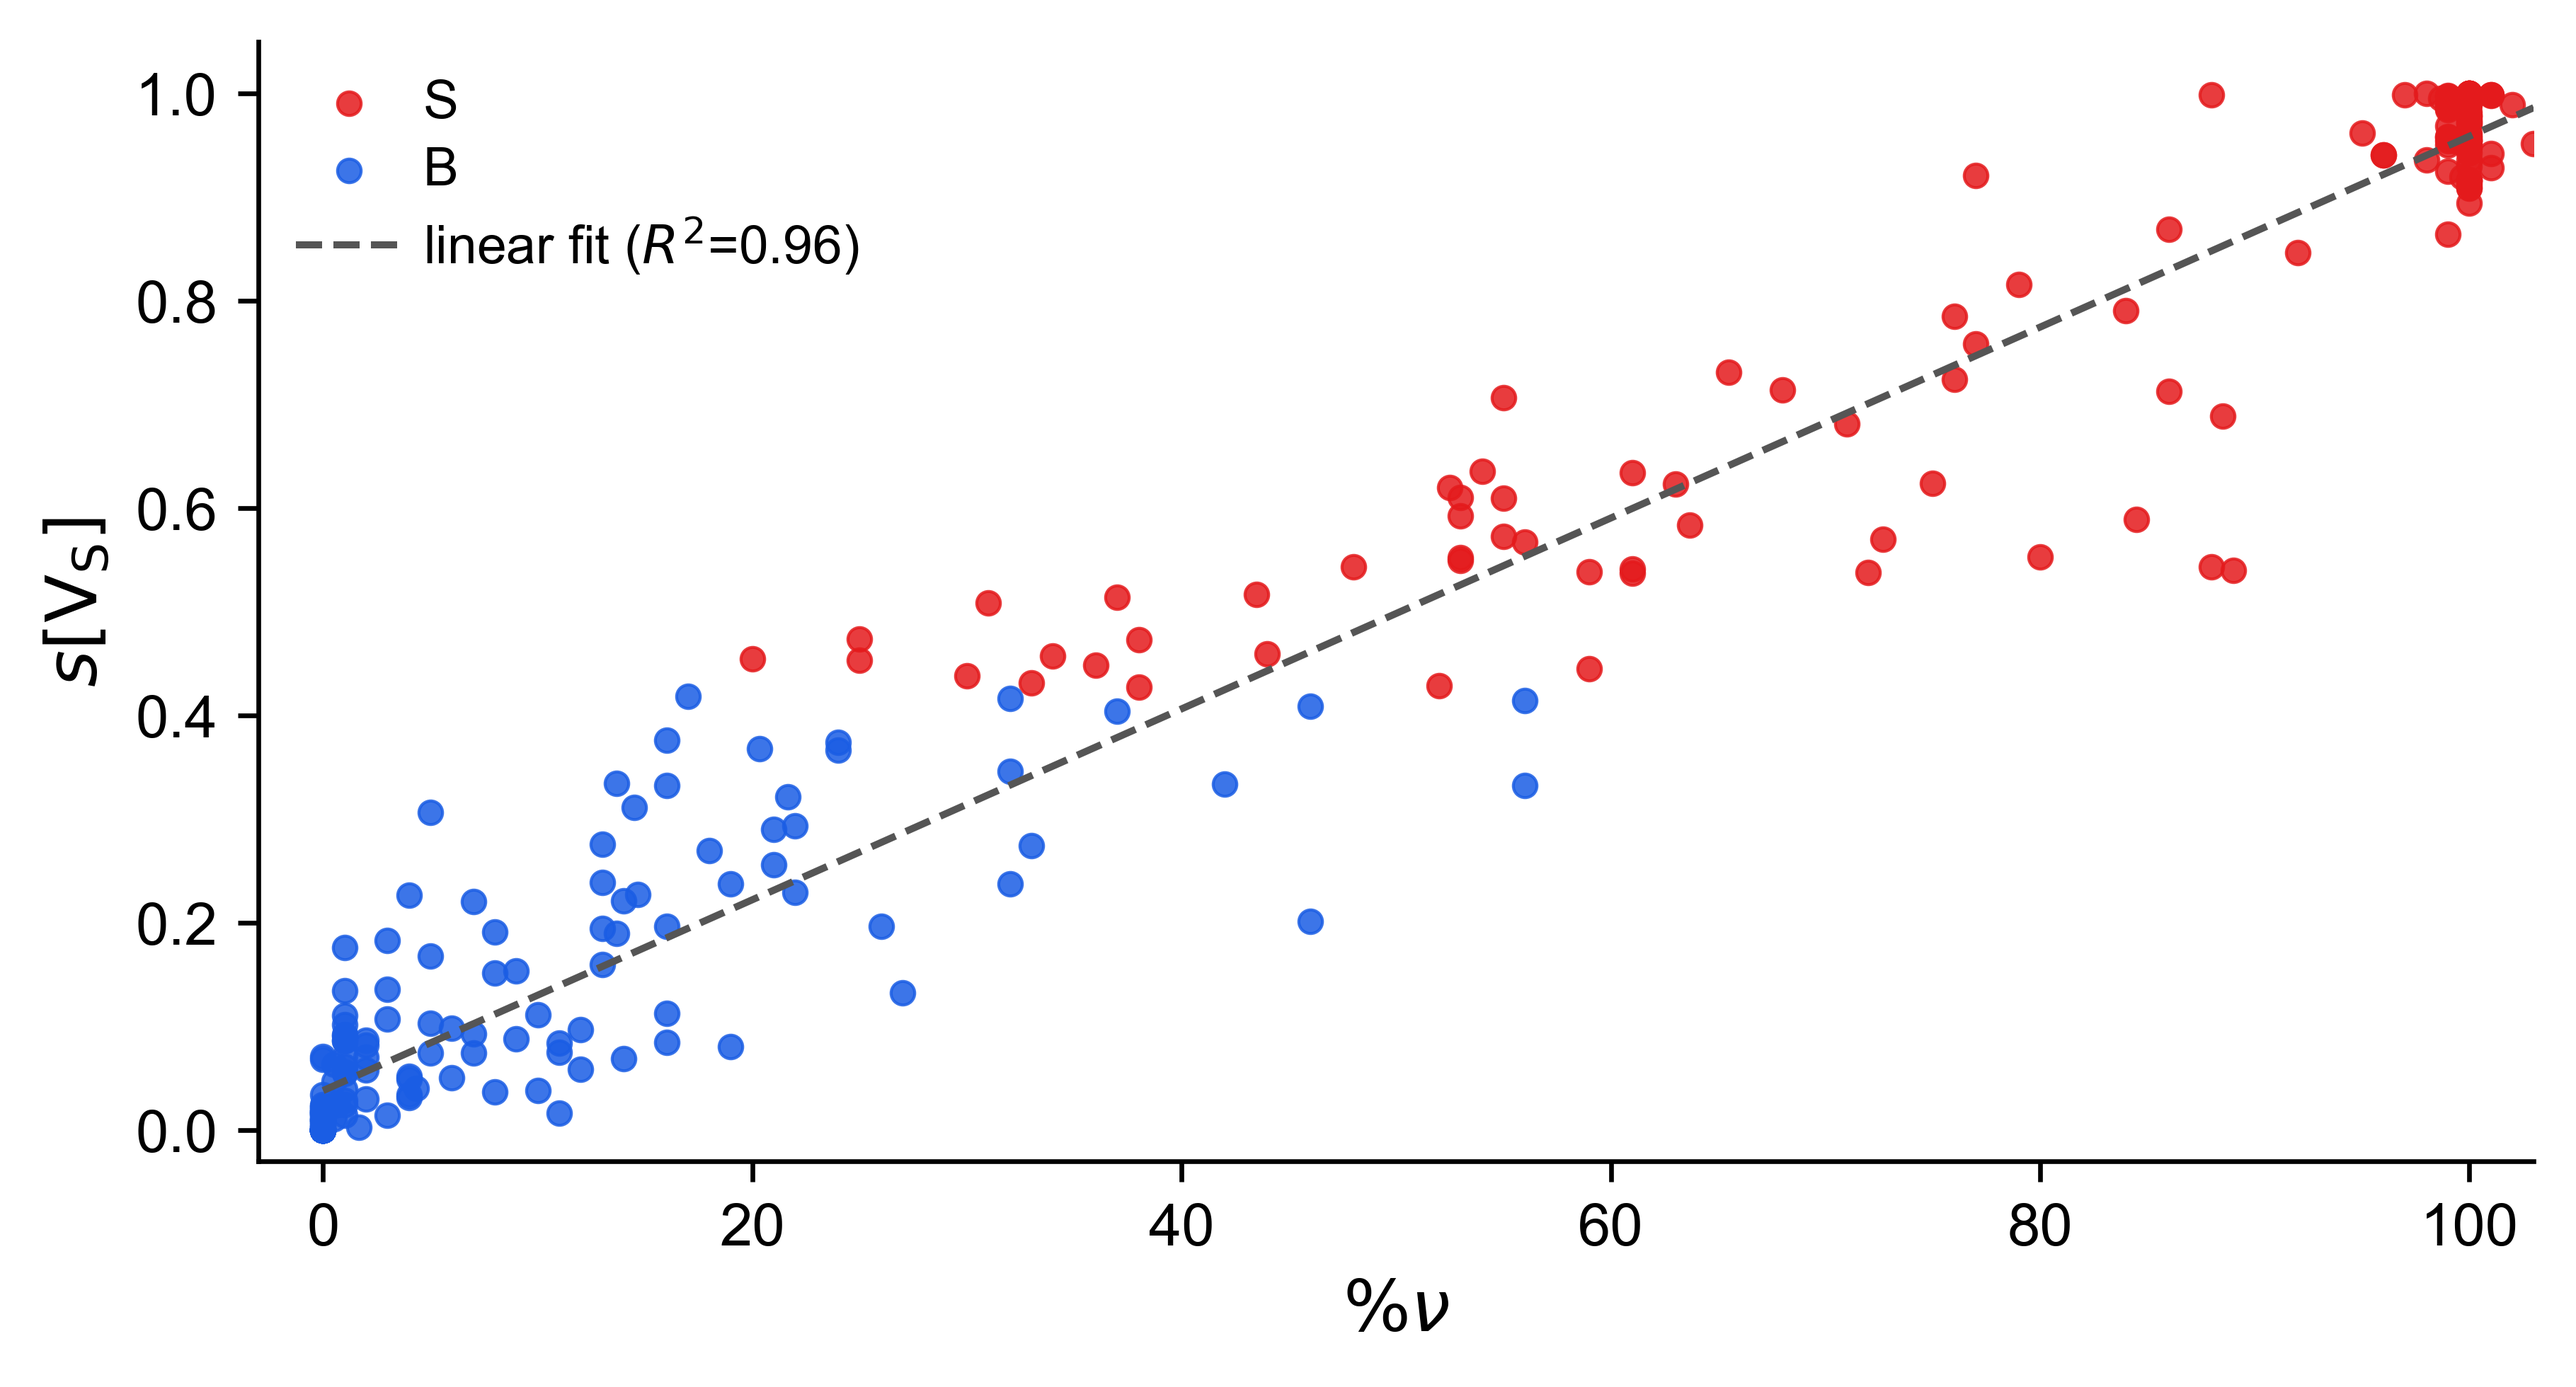
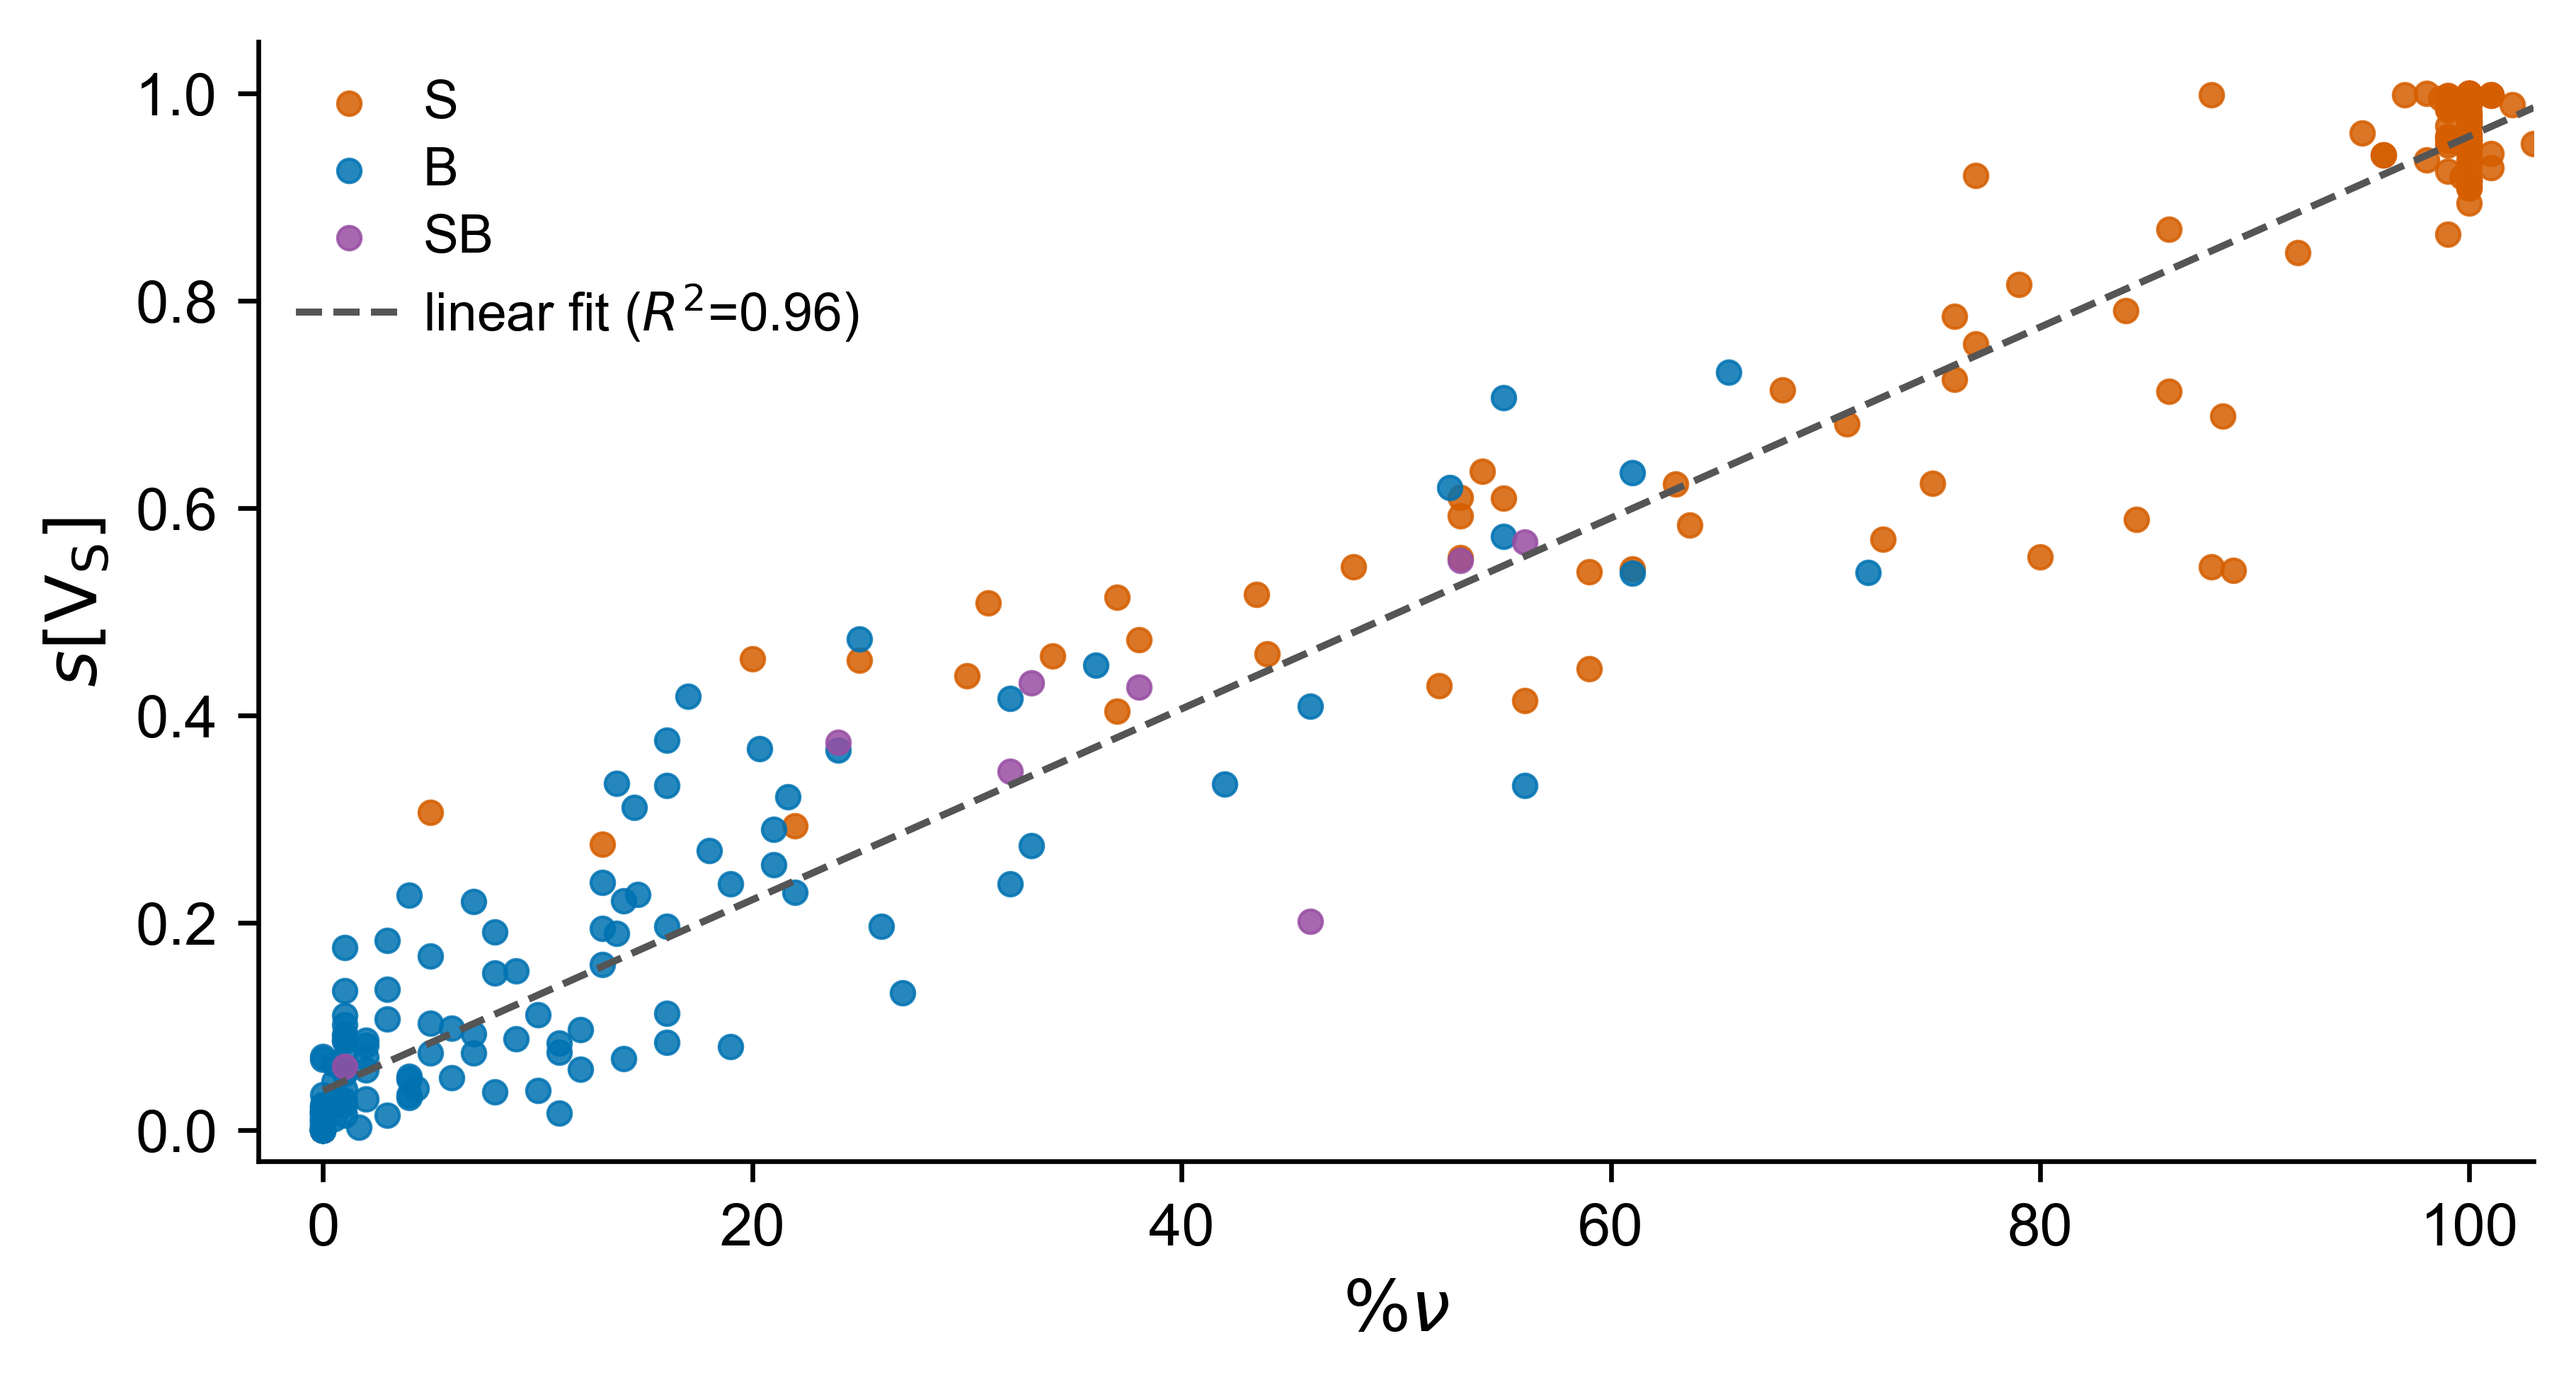
Color fig:ped_vs_vscore by literature reference S/B/SB, not our own predicted label
Coloring by the framework's own classify_all_modes output was circular
against the y-axis (V_Stretch, the quantity under test). Add color_by=
"reference" (new default) to plot_ped_vs_vscore, joining characterised_
modes.csv's hand-curated `type` column by Molecule+mode and rendering
with REF_CATEGORY_COLOR; color_by="predicted" keeps the old behavior for
comparison. tau_SB/label_source_csv only apply to "predicted" coloring.

diff --git a/src/figures.py b/src/figures.py
@@ -3244,25 +3244,46 @@ def _linear_fit_r2(x, y, degree=1):
 def plot_ped_vs_vscore(
     csv_input="data/results/combined_ped_vs_scores.csv",
     mol_list_csv="data/mol_list_method.csv",
+    characterised_modes_csv="data/characterised_modes.csv",
     out_dir="data/figures",
     label="fig_ped_vs_vscore",
     tau_SB=None,
     fit_degree=1,
     ylabel=r"$s[\mathrm{V_S}]$",
     label_source_csv=None,
+    color_by="reference",
 ):
     """VEDA4's PED-based %nu (``PED_Stretch_pct``) vs. this framework's own
     molecule-level stretch score s[V_S] (``V_Stretch``), one point per
     physical frequency (degenerate modes averaged together via
     _collapse_degenerate_freqs -- see its docstring) of
     combined_ped_vs_scores.csv, fit with a straight line (ordinary least
-    squares, reported with R^2) summarizing the overall trend. Points colored/
-    colored by this framework's own S/B/SB classify_all_modes label (the
-    csv's own `label` column), reusing CATEGORY_COLOR/CATEGORY_LABEL as-is
-    via _LABEL_CODE_TO_CATEGORY. One marker shape (circle) for all points --
-    color alone distinguishes the category, so varying marker shape too
-    would be a redundant second encoding of the same distinction (matches
-    fig:bondscores' marker="o" override).
+    squares, reported with R^2) summarizing the overall trend. One marker
+    shape (circle) for all points -- color alone distinguishes the category,
+    so varying marker shape too would be a redundant second encoding of the
+    same distinction (matches fig:bondscores' marker="o" override).
+
+    ``color_by`` selects what the point color/legend encodes:
+      - "reference" (default): the literature/PED ground-truth S/B/SB label,
+        read from ``characterised_modes_csv``'s hand-curated `type` column
+        and joined onto each row by Molecule + mode number (parsed from the
+        `Mode` column, e.g. "Vib 6" -> 6; validated by exact Freq agreement
+        with the source csv). Uses REF_CATEGORY_COLOR (the Okabe-Ito
+        bend/stretch pair), matching every other reference-colored figure
+        in this module. This is the independent ground truth the y-axis
+        score is being validated against, so it does not depend on
+        V_Stretch/tau_SB at all -- coloring by the framework's OWN label
+        here would color the plot by (a thresholded version of) the same
+        quantity already on the y-axis. Raises ValueError if any row has no
+        Molecule+mode match in ``characterised_modes_csv``.
+      - "predicted": the original behavior -- color by this framework's own
+        S/B/SB classify_all_modes label (the csv's own `label` column, or
+        re-derived via `tau_SB`/`label_source_csv`, see below), reusing
+        CATEGORY_COLOR/CATEGORY_LABEL via _LABEL_CODE_TO_CATEGORY.
+
+    ``tau_SB``/``label_source_csv`` only affect "predicted" coloring
+    (accepted but unused when color_by="reference", since reference labels
+    are fixed ground truth, not derived from V_Stretch).
 
     Scoped to mol_type=='test' molecules only (the 9-molecule held-out
     transferability set): combined_ped_vs_scores.csv also happens to carry
@@ -3310,7 +3331,23 @@ def plot_ped_vs_vscore(
     df = df[df["Molecule"].isin(test_molecules)]
     df = df.dropna(subset=["PED_Stretch_pct", "V_Stretch"])
     n_raw_modes = len(df)
-    if label_source_csv is not None:
+    if color_by == "reference":
+        df = df.copy()
+        cm = pd.read_csv(characterised_modes_csv)[["molecule", "mode", "type"]]
+        cm = cm.assign(mode=pd.to_numeric(cm["mode"], errors="coerce"))
+        mode_num = pd.to_numeric(df["Mode"].str.extract(r"(\d+)")[0], errors="coerce")
+        df = df.assign(_mode_num=mode_num).merge(
+            cm, how="left", left_on=["Molecule", "_mode_num"],
+            right_on=["molecule", "mode"])
+        if df["type"].isna().any():
+            missing = df.loc[df["type"].isna(), ["Molecule", "Mode"]]
+            raise ValueError(
+                f"characterised_modes_csv={characterised_modes_csv!r} has no "
+                f"Molecule+mode match for {len(missing)} row(s), e.g. "
+                f"{missing.iloc[0].to_dict()}")
+        df["label"] = df["type"]
+        df = df.drop(columns=["_mode_num", "molecule", "mode", "type"])
+    elif label_source_csv is not None:
         df = df.copy()
         src_tau_SB = tau_SB if tau_SB is not None else Thresholds.calibrated().tau_SB
         src = pd.read_csv(label_source_csv).dropna(subset=["V_Stretch"])
@@ -3328,12 +3365,13 @@ def plot_ped_vs_vscore(
     df = _collapse_degenerate_freqs(
         df, value_cols=["PED_Stretch_pct", "V_Stretch"], label_col="label")
 
+    color_map = REF_CATEGORY_COLOR if color_by == "reference" else None
     fig, ax = plt.subplots(figsize=(6.2, 3.4))
     for code, cat in _LABEL_CODE_TO_CATEGORY.items():
         sub = df[df["label"] == code]
         if sub.empty:
             continue
-        kw = _marker_kwargs(cat, marker="o")
+        kw = _marker_kwargs(cat, marker="o", color_map=color_map)
         ax.scatter(sub["PED_Stretch_pct"], sub["V_Stretch"], s=16,
                    zorder=3, label=CATEGORY_LABEL[cat], **kw)
 
@@ -3365,7 +3403,11 @@ def plot_ped_vs_vscore(
         "fit_degree": fit_degree,
         "fit_coeffs": tuple(float(c) for c in coeffs),
         "r2": float(r2),
-        "tau_SB": tau_SB if tau_SB is not None else Thresholds.calibrated().tau_SB,
+        "color_by": color_by,
+        "tau_SB": (
+            None if color_by == "reference"
+            else tau_SB if tau_SB is not None else Thresholds.calibrated().tau_SB
+        ),
     }
 
 
